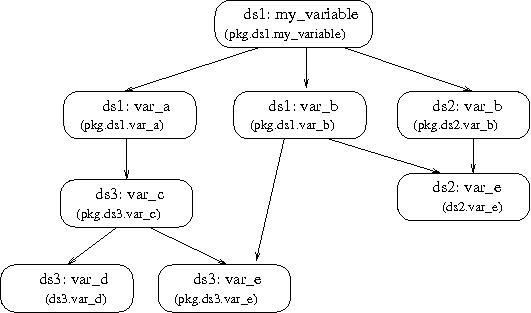
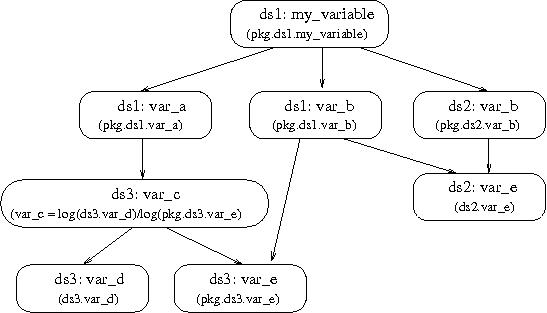
(hana) figure slightly modified; minor changes in Dependencies tree
git-svn-id: https://svn.urbansim.org/trunk@14843 1513fa5d-83ce-422e-ae47-6967bb0fb594

diff --git a/opus_docs/manual/part-api/opus-core.tex b/opus_docs/manual/part-api/opus-core.tex
@@ -720,16 +720,6 @@ about which versions of the dependent variables \variablesindex this variable \v
 computed with. This mechanism is automatically invoked by calling the method
 \method{compute_variables()} \variablesindex of the class \class{Dataset}. \datasetindex
 
-As an example, consider Figure~\ref{fig:opus-core-variable-tree}. There are 8
-variables/attributes, \variablesindex\attributesindex belonging to 3 datasets, \datasetindex \verb|ds1|, \verb|ds2|, and
-\verb|ds3|.  The arrows show the dependency hierarchy between variables. \variablesindex The
-hierarchy is defined in the method \method{dependencies()} of each variable \variablesindex
-where children are listed in their fully-qualified names (in
-this example the names in the parentheses in the figure). Note that two
-attributes \attributesindex here are primary, namely ``ds3.var_d'' and ``ds2.var_e'', and
-thus are defined in their dataset-qualified \datasetindex name (there is no variable \variablesindex
-implementation for those attributes). \attributesindex
-
 \begin{figure}
 \begin{center}
 %begin{latexonly}
@@ -738,16 +728,31 @@ implementation for those attributes). \attributesindex
 \caption{\label{fig:opus-core-variable-tree}\small Example of a variable
   dependencies tree. The arrows indicate the dependency direction: 
   $a \longrightarrow b$ means '$a$ is dependent on $b$'.}
-\htmlonly{\includegraphics[scale=0.6]{images/variabletreeinitial.jpg}}
+\htmlonly{\includegraphics[scale=0.9]{images/variabletreeinitial.jpg}}
 \end{center}
 \end{figure}
+
+As an example, consider Figure~\ref{fig:opus-core-variable-tree}. There are 8
+variables/attributes, \variablesindex\attributesindex belonging to 3 datasets, \datasetindex \verb|ds1|, \verb|ds2|, and
+\verb|ds3|.  The arrows show the dependency hierarchy between variables. \variablesindex The
+hierarchy is defined in the method \method{dependencies()} of each variable \variablesindex
+by listing all direct 'children' variables as expressions, fully-qualified names or dataset-qualified names (in
+this example the names in the parentheses in the figure). Note that two
+attributes \attributesindex here are primary, namely ``ds3.var_d'' and ``ds2.var_e'', and
+thus are defined in their dataset-qualified \datasetindex name (there is no variable \variablesindex
+implementation for those attributes). \attributesindex For example, the \method{dependencies()} method of the root variable 
+``pkg.ds1.my_variable'' returns a list of three elements: \verb|['pkg.ds1.var_a', 'pkg.ds1.var_b', 'pkg.ds2.var_b']|, 
+and \method{dependencies()} of the variable ``pkg.ds1.var_a'' returns a list with one expression:
+\verb|['var_c = log(ds3.var_d)/log(pkg.ds3.var_e)']|. As described in Section~\ref{sec:opus-core-expressions}, 
+expressions do not have user-defined implementations (they are created on the fly). Therefore there is 
+no need to define dependencies for the variable ``ds3.var_c'', Opus determines them automaticaly. 
 
 Now suppose we have a system of several models, three of which are invoking
 the computation of ``my_variable'' \variablesindex of dataset \datasetindex \verb|ds1|. Suppose also that
 initially we have created the three datasets \datasetindex and loaded the two primary
 attributes. \primaryattributesindex Opus assigns to each newly created attribute \attributesindex a version number 0 in
 its attribute \attributesindex box.  This situation is shown in the left upper corner of
-Figure~\ref{fig:opus-core-variable-tree-1}. Box number 1. shows that there are only
+Figure~\ref{fig:opus-core-variable-tree-1}. Box number 1 shows that there are only
 two attributes \attributesindex in the system, both with version number 0.
 
 \begin{figure}
@@ -761,11 +766,12 @@ two attributes \attributesindex in the system, both with version number 0.
 \end{center}
 \end{figure}
 
-Box 2. shows a situation when the first model invokes the computation of
+Box 2 shows a situation when the first model invokes the computation of
 ``my_variable'' \variablesindex \footnote{Because of the dependencies on variables of other
   datasets, the correct call is\\
-  \code{ds1.compute_variables("my_variable", resources=Resources({"ds2":ds2, "ds3":ds3}))}.\\
-  We simplify it for
+  \code{ds1.compute_variables(["pkg.ds1.my_variable"], dataset_pool=pool)} where \code{pool}
+  is constructed as described in Section~\ref{sec:core-dataset-pool} and contains datasets ``ds2'' and ``ds3''.
+  We simplify the notation here for
   a better readability.}. The system works through the defined dependencies and
 computes all variables \variablesindex needed to compute ``my_variable''. \variablesindex In this process,
 again, each newly computed variable \variablesindex gets the version number 0 (illustrated by
@@ -776,20 +782,20 @@ the figure, this is illustrated by the small boxes bellow each variable. \variab
 Note that all elements in Figure~\ref{fig:opus-core-variable-tree-1} that are
 created or change their values are shaded.
 
-The box number 3. shows a situation in which another model changes values of
+The box number 3 shows a situation in which another model changes values of
 variable ``var_e'' of the dataset \datasetindex \verb|ds2| which causes an increment of the
 version number. Therefore, when the next model invokes
 \method{compute_variables("my_variable")}, \variablesindex Opus determines that there is a
 mismatch between versions of ``ds.var_e'' on which variables \variablesindex ``ds1.var_b'' and
-``ds2.var_b'' were computed and its current version. Then all
+``ds2.var_b'' were computed and its current version (the mismatch is visualized by red crosses). Then all
 variables \variablesindex above ``ds.var_e'' are recomputed, their version numbers
 incremented, and the version numbers in the dependencies lists are updated
-(box 4.).
+(box 4).
 
 A similar situation arises when another model changes the variable \variablesindex
-``ds3.var_e'' (box 5.). The next call of
+``ds3.var_e'' (box 5). The next call of
 \method{compute_variables("my_variable")} \variablesindex causes a recomputing of 4
-variables \variablesindex (box 6.) In the right lower corner of
+variables \variablesindex (box 6) In the right lower corner of
 Figure~\ref{fig:opus-core-variable-tree-1}, the state of the three datasets \datasetindex is
 shown at the end of the run of our example models.
 
